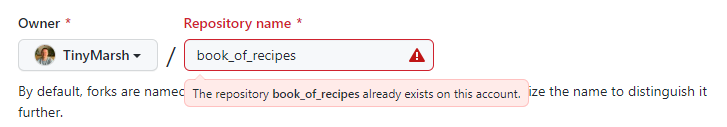
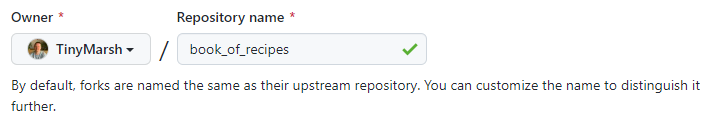
Add more information about forks. Fix naming error in image. Remove old episode file.

diff --git a/_episodes/l1-04-managing_contributions.md b/_episodes/l1-04-managing_contributions.md
@@ -18,13 +18,20 @@ keypoints:
 ## Pull Requests
 Pull requests are a GitHub feature which allows collaborators tell each other about changes that have been pushed to a branch in a repository. Similar to **issues**, an open pull request can contain discussions about the requested changes and allows collaborators to follow up with proposed ammendments and follow-up commits before changes are either rejected or accepted and merged into the base branch.
 
-## Branching and forking
-There are two main workflows when creating a pull request which reflect the type of development model used in the project you are contributing to; 1. Pull request from a branch within a repository and, 2. Pull request from a forked repository.
+## Branching and Forking
+There are two main workflows when creating a pull request which reflect the type of development model used in the project you are contributing to;
+1. Pull request from a branch within a repository and,
+2. Pull request from a forked repository.
 
-> ### About forks
-> Before we get into understanding pull requests, we should first get to grips with what a fork is, and how it differs from a branch. Forking a repository is like copying a repository. Except, more than just being a copy, GitHub has functionality for forks where you can;
-> 1. Use pull requests to suggest changes from your user-owned fork to the original repository, and
-> 2. You can bring changes from an upstream repository to your local fork.
+> ## About forks
+> Before we get into understanding pull requests, we should first get to grips with what a fork is, and how it differs from a branch.
+> - By default, a public repository can be seen by anyone but only the owner can make changes e.g. create new commits or branches.
+> - `Forking` a repository means creating a copy of it in your own GitHub account.
+> - This copy is fully under your control, and you can create branches, push new commits, etc., as you would do with any other of your repos.
+> - `fork` is a GitHub concept and not Git.
+> - Forks are related to the original repository, and the number of forks a given repository has can be seen in the upper right corner of the repo page.
+> - If you have some changes in your fork that you want to contribute to the original repo, you open a `pull request`.
+> - You can bring changes from an upstream repository to your local fork.
 >
 >Essentially, the way you use pull requests will depend on what permissions you have for the repository you are contributing to. If the repository owner has not granted you write permission, then you will not be able to create and push a branch to that repository. Conversely, anyone can fork an existing repository and push changes to their personal repository.
 {: .callout}
@@ -72,10 +79,10 @@ This fork and pull model is a key aspect of open-source projects, allowing commu
 Pull requests from forked repositories work slightly differently to that of pull requests from a branch within a repository.
 
 > ## Forking a repository
-> Let's have a go at forking the book_of_recipes repository on the Imperial College London GitHub organisation.
+> Let's have a go at forking the *book_of_recipes* repository on the Imperial College London GitHub organisation.
 > 1. First, navigate to the repository at [https://github.com/ImperialCollegeLondon/book_of_recipes](https://github.com/ImperialCollegeLondon/book_of_recipes) and in the top-right corner click **Fork**.
 > ![Fork button]({{ site.baseurl }}/fig/fork_button.png "Pull request title and description fields and create pull request button"){:class="img-responsive"}
-> 2. Select an owner for the forked repository (if you belong to any GitHub organisations, they will appear here) and give it a suitable name. I am receiving a warning in the screenshot below as I chose myself as the owner and already have a repository with this name; GitHub does not allow you to own two repositories of the same name.
+> 2. Select an owner for the forked repository (if you belong to any GitHub organisations, they will appear here) and give it a suitable name.
 > ![Create a fork with repository name emphasised]({{ site.baseurl }}/fig/fork_choose_owner_name.png "Create a fork with repository name emphasised"){:class="img-responsive"}
 > 3. Adding a description for your fork is optional. There is also a checkbox asking if you want to copy only the default branch of the repository (in this instance this is called `master`) or whether you want to copy all the branches. In most cases you will only want to copy the default branch. This option is selected by default. Finally, click **Create fork**.
 > ![Create a fork with description and create button]({{ site.baseurl }}/fig/fork_description_create.png "Create a fork with description and create button"){:class="img-responsive"}
